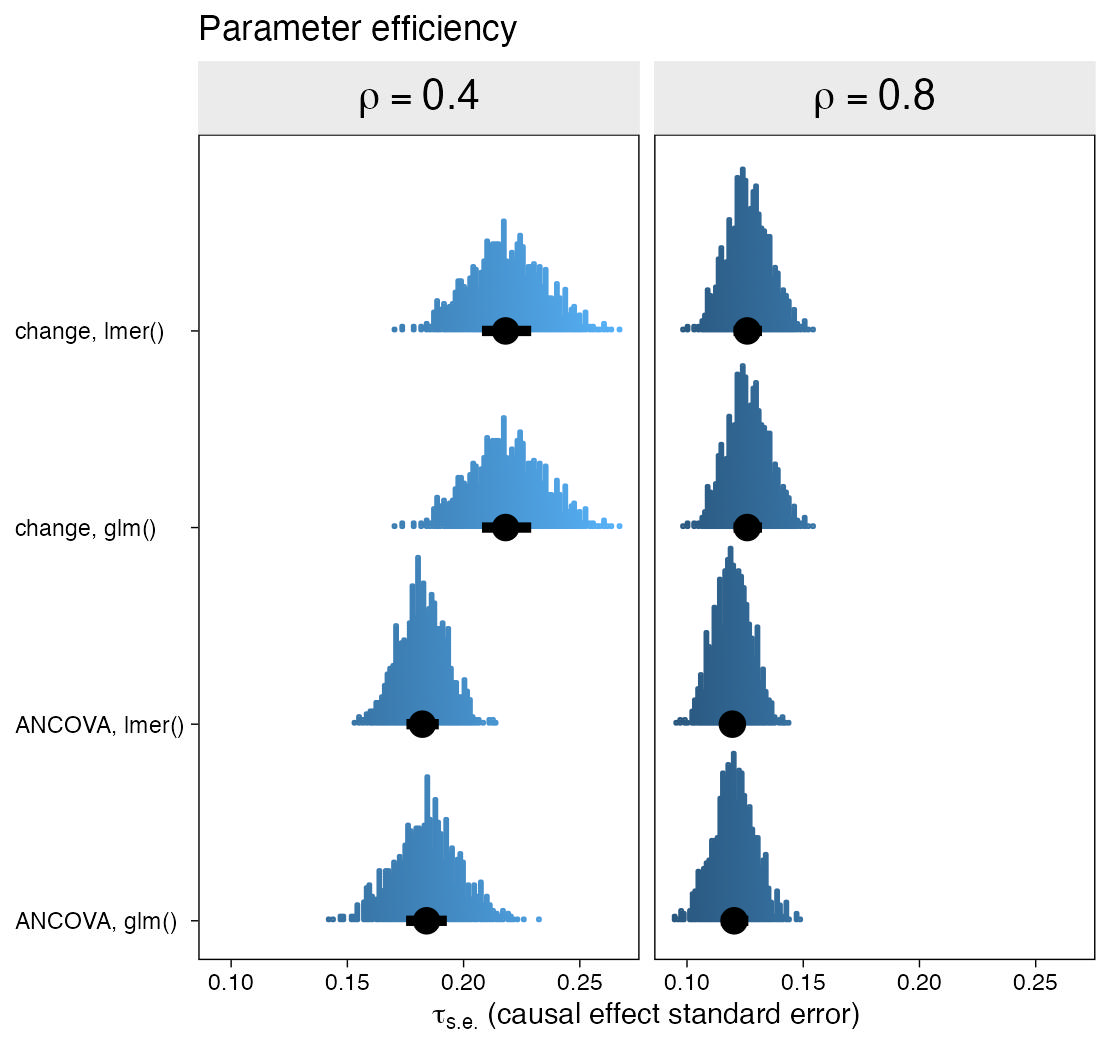
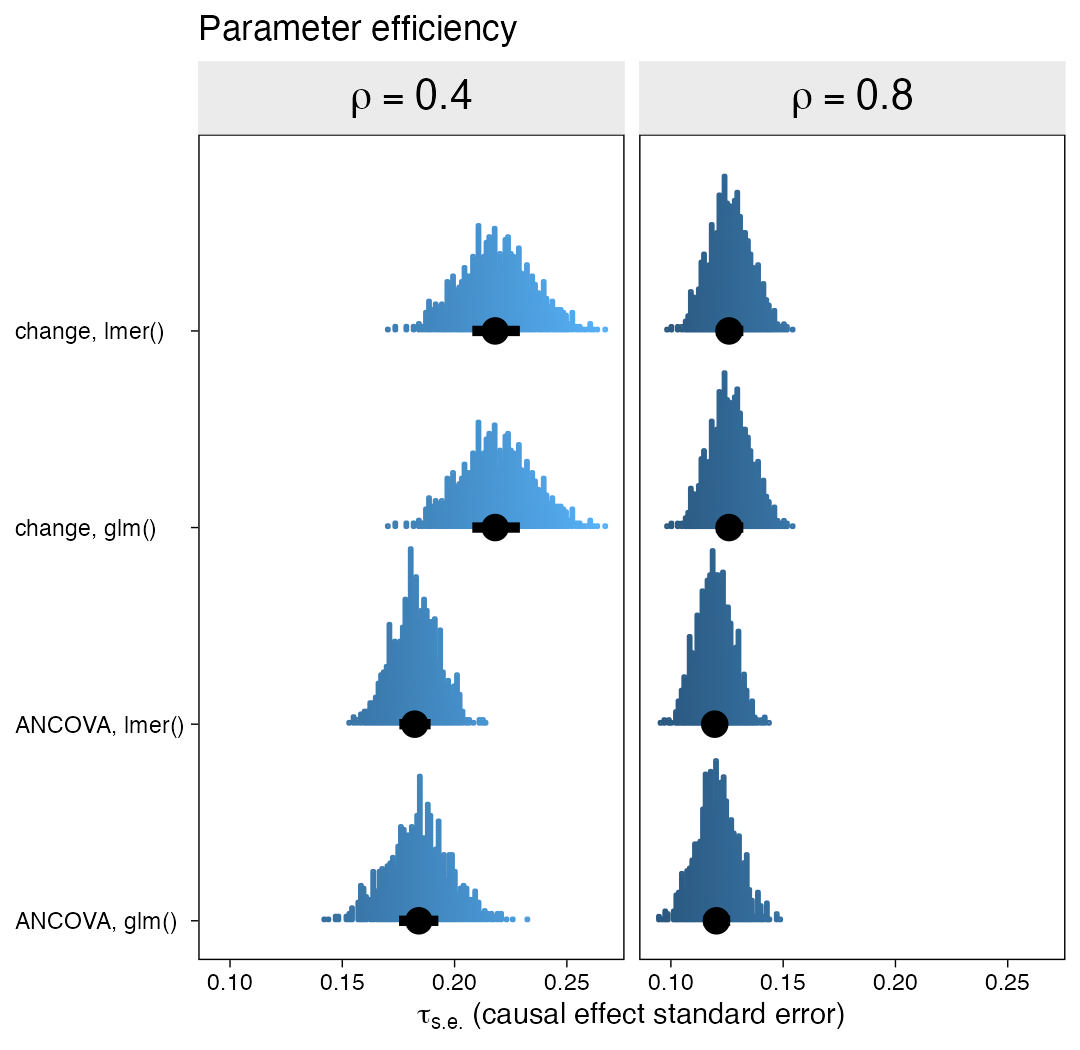
after_stat()

diff --git a/content/blog/2022-06-13-just-use-multilevel-models-for-your-pre-post-rct-data/index.md b/content/blog/2022-06-13-just-use-multilevel-models-for-your-pre-post-rct-data/index.md
@@ -478,7 +478,7 @@ bind_rows(
   mutate(type = str_c(model, ", ", method),
          rho = str_c("rho==", rho)) %>%
   
-  ggplot(aes(x = estimate, y = type, slab_color = stat(x), slab_fill = stat(x))) +
+  ggplot(aes(x = estimate, y = type, slab_color = after_stat(x), slab_fill = after_stat(x))) +
   geom_vline(xintercept = 1, color = "grey67") +
   stat_dotsinterval(.width = .5, slab_shape = 22) +
   labs(title = expression("Parameter bias by model, algorithm, and pre/post correlation "*(rho)),
@@ -491,12 +491,6 @@ bind_rows(
         legend.position = "none") +
   facet_wrap(~ rho, labeller = label_parsed)
 ```
-
-    ## Warning: `stat(x)` was deprecated in ggplot2 3.4.0.
-    ## ℹ Please use `after_stat(x)` instead.
-
-    ## Warning: Using the `size` aesthietic with geom_segment was deprecated in ggplot2 3.4.0.
-    ## ℹ Please use the `linewidth` aesthetic instead.
 
 <img src="{{< blogdown/postref >}}index_files/figure-html/unnamed-chunk-13-1.png" width="672" />
 
@@ -511,7 +505,7 @@ bind_rows(
   mutate(type = str_c(model, ", ", method),
          rho = str_c("rho==", rho)) %>% 
   
-  ggplot(aes(x = std.error, y = type, slab_color = stat(x), slab_fill = stat(x))) +
+  ggplot(aes(x = std.error, y = type, slab_color = after_stat(x), slab_fill = after_stat(x))) +
   stat_dotsinterval(.width = .5, slab_shape = 22) +
   labs(title = expression("Parameter efficiency by model, algorithm, and pre/post correlation "*(rho)),
        x = expression(tau[s.e.]*" (causal effect standard error)"),
